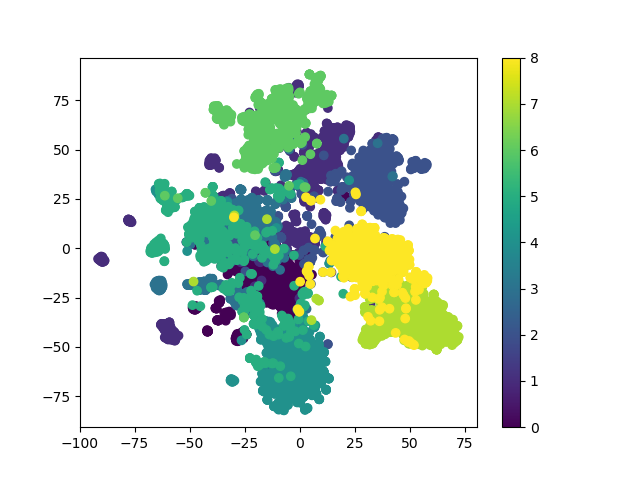
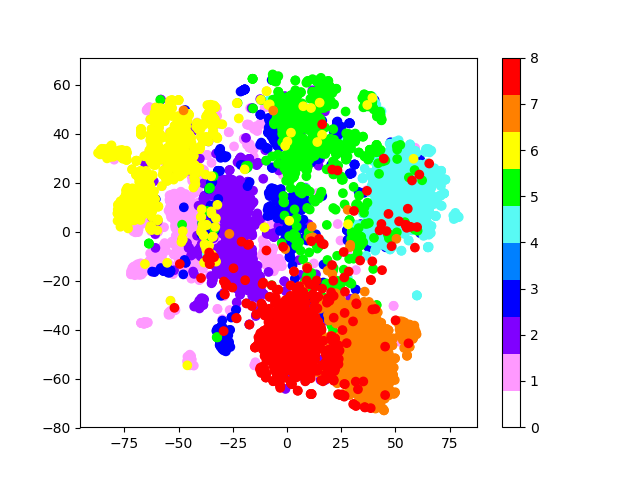
added tfidf

diff --git a/visualize_livedoor.py b/visualize_livedoor.py
@@ -6,8 +6,20 @@ import os
 import pdb
 import pickle
 import numpy as np
+from matplotlib import colors
 
-dataPath = 'livedoor-news-data-pkl/tfidf'
+# select method
+method = 2
+
+if method == 1:
+	dataPath = 'livedoor-news-data-pkl/w2v'
+	imgName = 'w2v.png'
+	
+elif method == 2:
+	dataPath = 'livedoor-news-data-pkl/tfidf'
+	imgName = 'tfidf.png'
+
+
     
 # ファイル名（カテゴリに対応）をまとめているテキストからファイル名を読み出す
 f = open('file_name.txt','r')
@@ -15,7 +27,7 @@ f = open('file_name.txt','r')
 lines = f.readlines()
 fn = [line.strip() for line in lines]
 
-
+                               
 # 各カテゴリのファイルごとにpickleファイルから特徴量を読み込み、XとYに格納
 # X：特徴量
 # Y: カテゴリID
@@ -25,7 +37,6 @@ for fInd in np.arange(len(fn)):
 	print(fullDataPath)
 
 	with open(fullDataPath,'rb') as fp:
-		pdb.set_trace()
 		tmpX = pickle.load(fp)
 		tmpY = np.ones(tmpX.shape[0])*fInd
 
@@ -37,10 +48,17 @@ for fInd in np.arange(len(fn)):
 			X = np.vstack([X,tmpX])
 			Y = np.hstack([Y,tmpY])
 
+# T-SNE
 X2d = TSNE(n_components=2, random_state=0).fit_transform(X)
 
-plt.scatter(X2d[:, 0], X2d[:, 1], c=Y)
+# colormap
+lcmap = colors.ListedColormap(['#000000', '#FF99FF', '#8000FF',
+                               '#0000FF', '#0080FF', '#58FAF4',
+                               '#00FF00', '#FFFF00', '#FF8000',
+                               '#FF0000'])
+
+plt.scatter(X2d[:, 0], X2d[:, 1], c=Y+1, cmap=lcmap)
 plt.colorbar()
-plt.savefig('t-sne.png')
+plt.savefig(imgName)
 plt.show()
 
